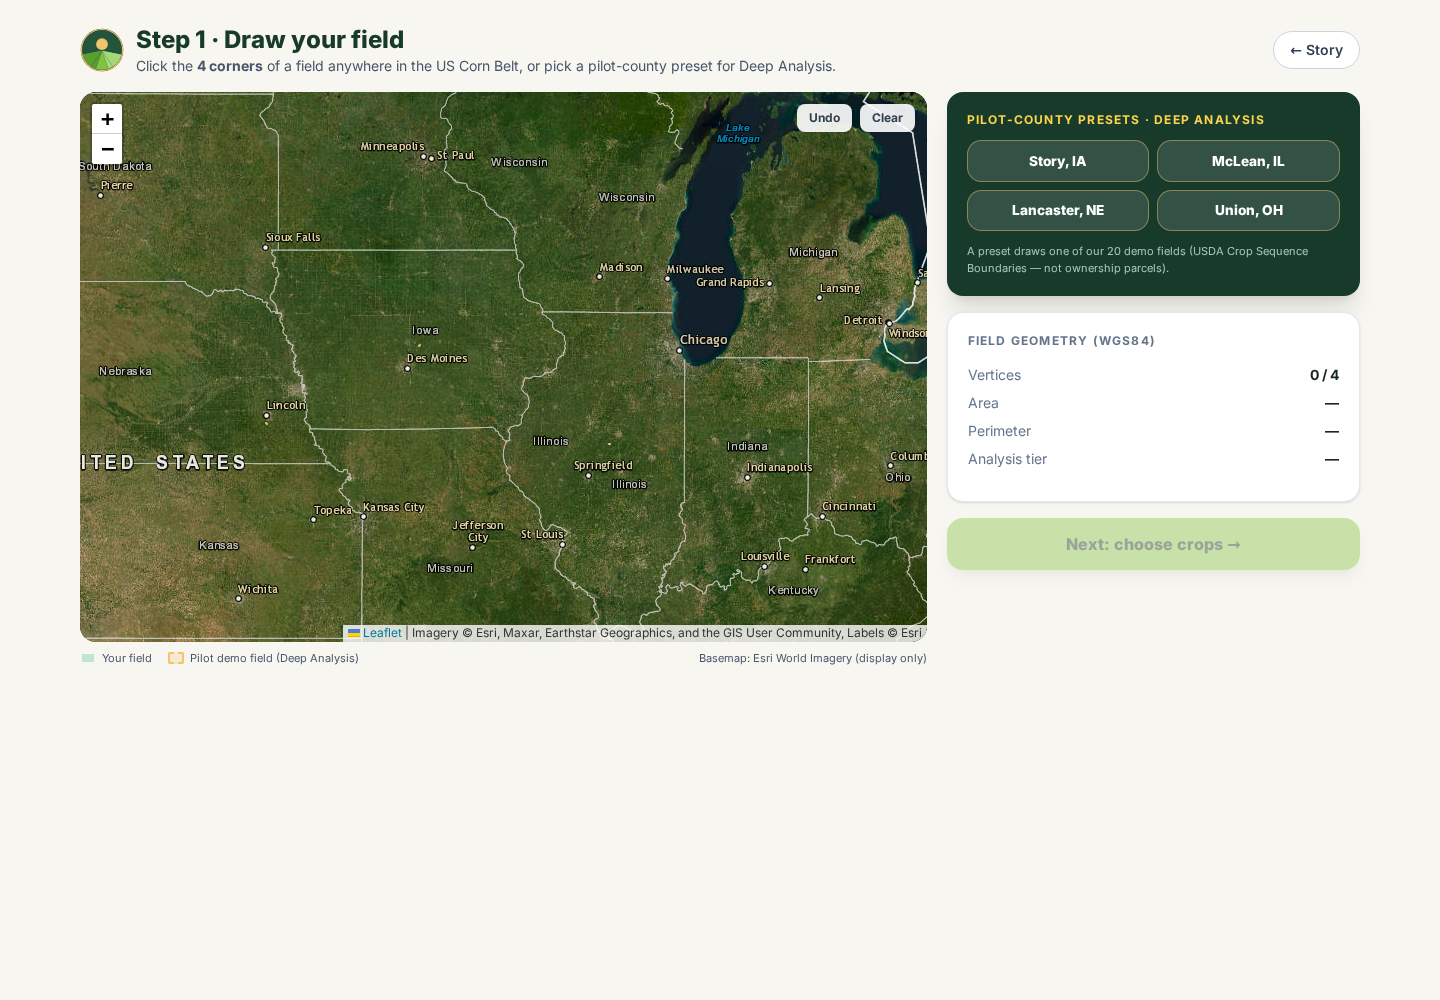
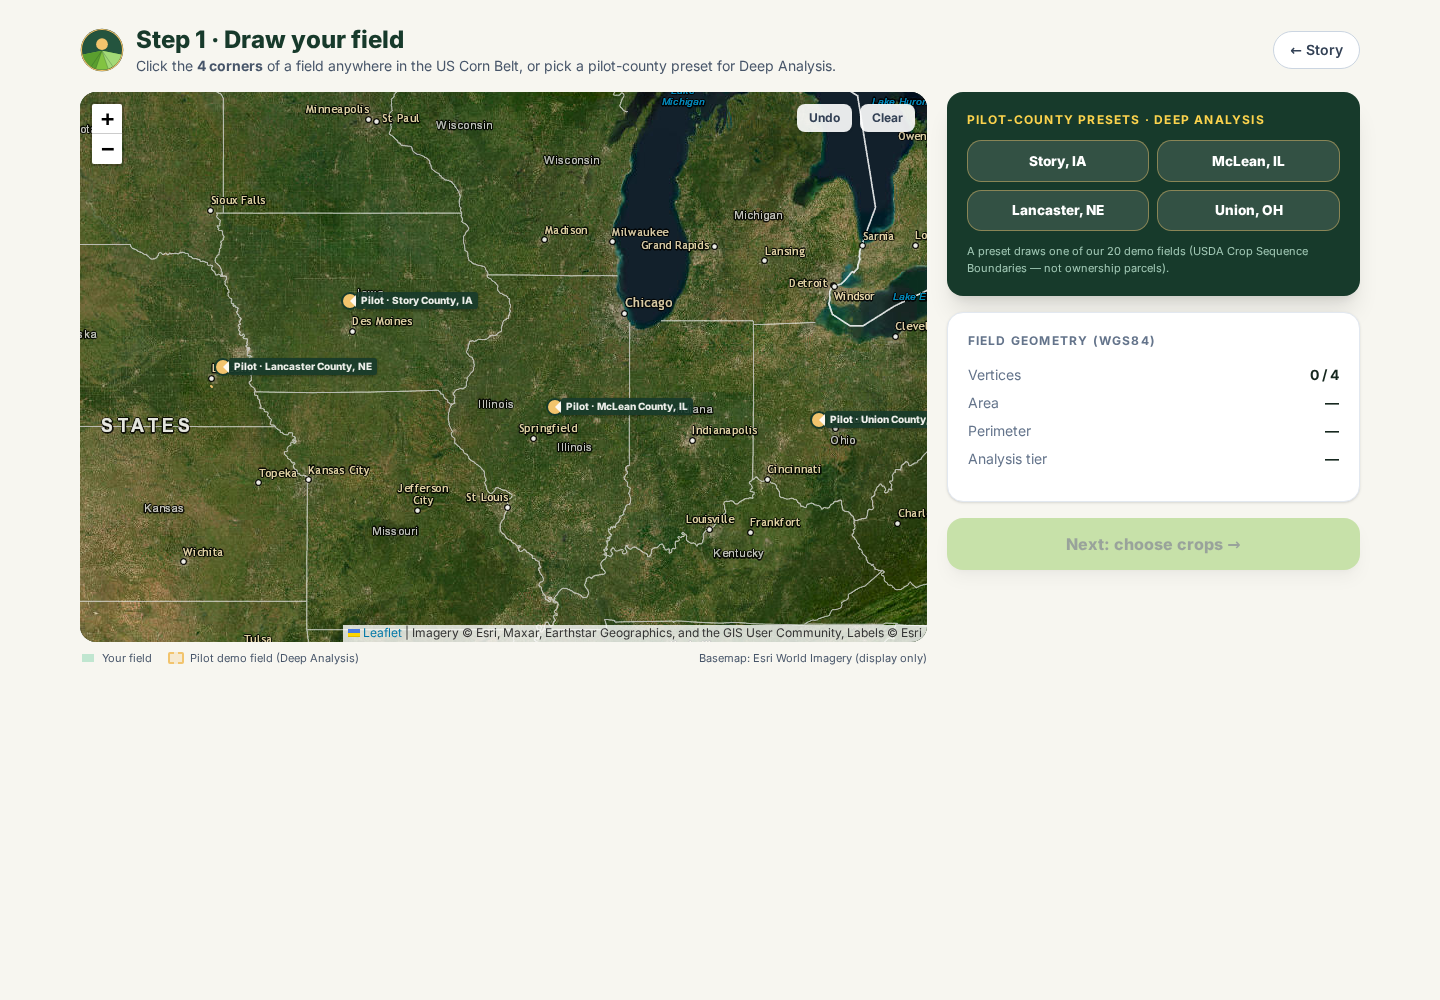
feat(frontend): pilot-county markers on overview map; refreshed screenshots

Changed region(s): [[0.0312, 0.093, 0.6562, 0.651]]

diff --git a/frontend/app.js b/frontend/app.js
@@ -107,7 +107,7 @@
   let map, userLayer, vertexLayer, demoLayers = {};
   function initMap() {
     if (map) { setTimeout(() => map.invalidateSize(), 50); return; }
-    map = L.map("map", { zoomControl: true, worldCopyJump: false }).setView([41.6, -91.5], 6);
+    map = L.map("map", { zoomControl: true, worldCopyJump: false }).setView([41.0, -90.3], 6);
     window.__artfarmMap = map;
     L.tileLayer("https://server.arcgisonline.com/ArcGIS/rest/services/World_Imagery/MapServer/tile/{z}/{y}/{x}", {
       maxZoom: 19,
@@ -130,6 +130,15 @@
         lyr.bindTooltip(`Pilot demo field · ${COUNTY[f.county_fips] || f.county_fips} · ${fmt(f.area_ha, 1)} ha`);
         lyr.on("click", (e) => { L.DomEvent.stopPropagation(e); usePresetField(f); });
         demoLayers[f.field_id] = lyr;
+      }
+      for (const fips of Object.keys(COUNTY)) {
+        const f = state.fields.find((x) => x.county_fips === fips);
+        if (!f) continue;
+        const c = f.ring.reduce((a, p) => [a[0] + p[0] / f.ring.length, a[1] + p[1] / f.ring.length], [0, 0]);
+        L.circleMarker([c[1], c[0]], { radius: 8, color: "#173a2b", weight: 2, fillColor: "#f2c46d", fillOpacity: 1 })
+          .bindTooltip(`Pilot · ${COUNTY[fips]}`, { permanent: true, direction: "right", className: "vtx-label" })
+          .on("click", (e) => { L.DomEvent.stopPropagation(e); usePresetField(f); })
+          .addTo(map);
       }
     } catch (e) {
       toast("Pilot field outlines unavailable: " + e.message);
